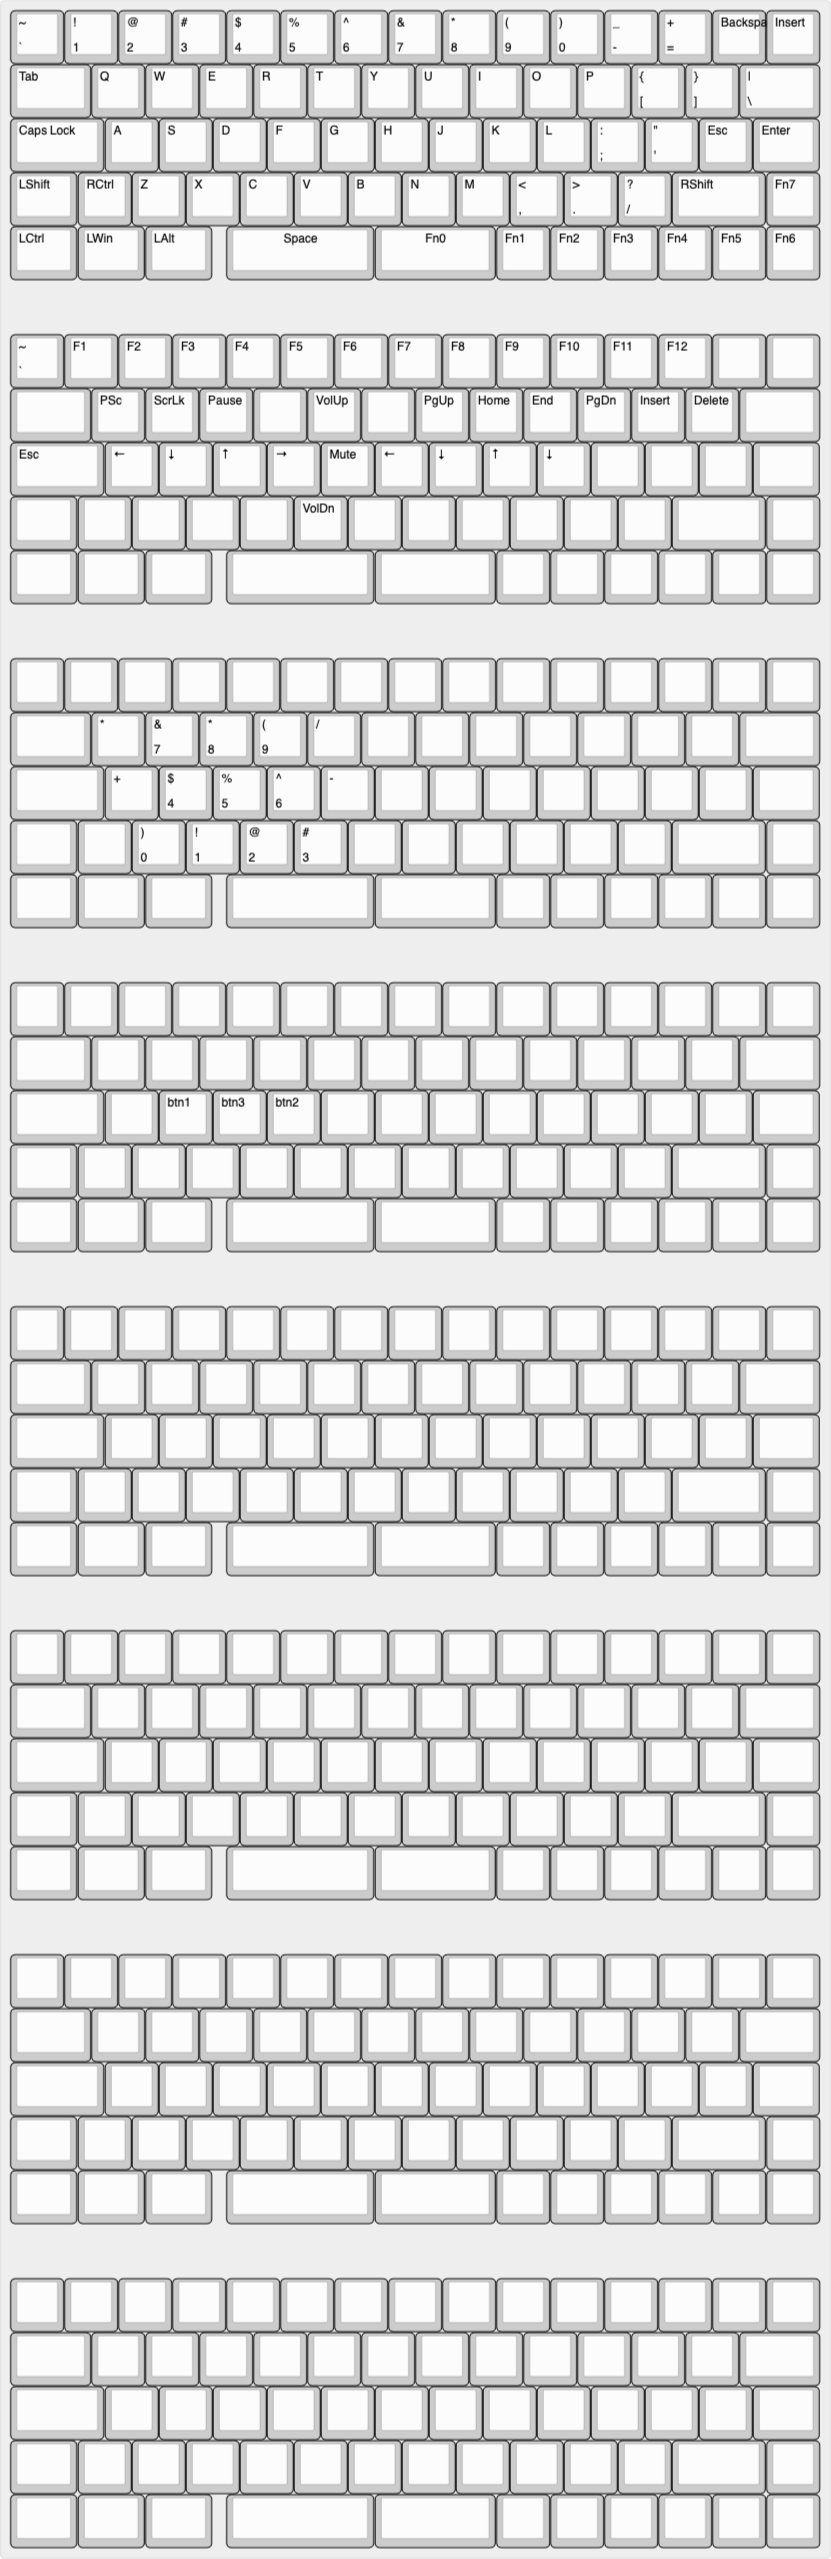
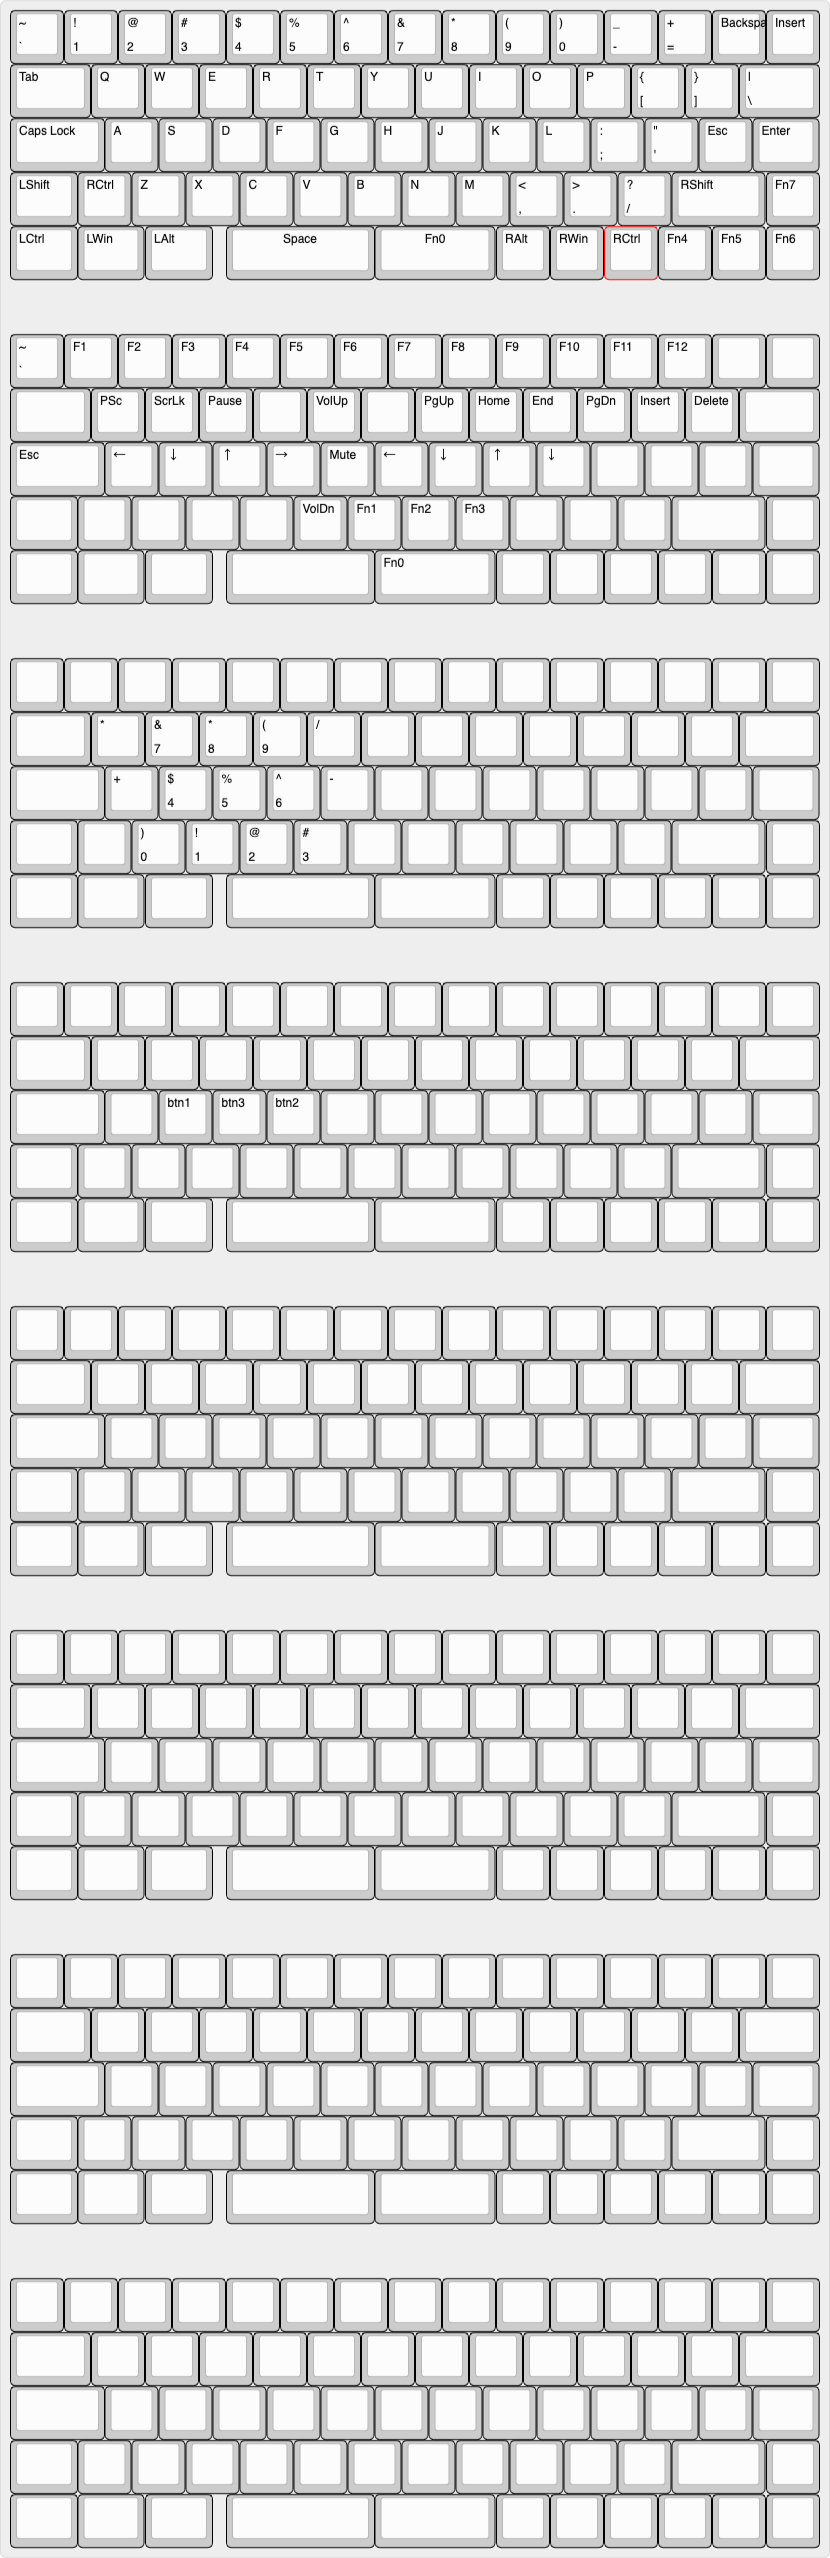
1555412225

diff --git a/keyboard/XD60/keymap.c b/keyboard/XD60/keymap.c
@@ -1,4 +1,4 @@
-// Generated by TKG at 2019-04-16 19:01:04
+// Generated by TKG at 2019-04-16 19:53:17
 
 #include "keymap_common.h"
 
@@ -32,7 +32,7 @@ const uint8_t keymaps[][MATRIX_ROWS][MATRIX_COLS] PROGMEM = {
         TRNS,PSCR,SLCK,PAUS,TRNS,VOLU,TRNS,PGUP,HOME,END, PGDN,INS, DEL, TRNS, \
         ESC, LEFT,DOWN,UP,  RGHT,MUTE,LEFT,DOWN,UP,  DOWN,TRNS,TRNS,TRNS,TRNS, \
         TRNS,TRNS,TRNS,TRNS,TRNS,VOLD,TRNS,TRNS,TRNS,TRNS,TRNS,TRNS,TRNS,TRNS, \
-        TRNS,TRNS,TRNS,     TRNS,TRNS,TRNS,     TRNS,TRNS,TRNS,TRNS,TRNS,TRNS),
+        TRNS,TRNS,TRNS,     TRNS,FN0, TRNS,     TRNS,TRNS,TRNS,TRNS,TRNS,TRNS),
     [2] = KEYMAP_TKG(
         TRNS,TRNS,TRNS,TRNS,TRNS,TRNS,TRNS,TRNS,TRNS,TRNS,TRNS,TRNS,TRNS,TRNS, \
         TRNS,PAST,7,   8,   9,   PSLS,TRNS,TRNS,TRNS,TRNS,TRNS,TRNS,TRNS,TRNS, \
@@ -40,10 +40,10 @@ const uint8_t keymaps[][MATRIX_ROWS][MATRIX_COLS] PROGMEM = {
         TRNS,TRNS,0,   1,   2,   3,   TRNS,TRNS,TRNS,TRNS,TRNS,TRNS,TRNS,TRNS, \
         TRNS,TRNS,TRNS,     TRNS,TRNS,TRNS,     TRNS,TRNS,TRNS,TRNS,TRNS,TRNS),
     [3] = KEYMAP_TKG(
-        TRNS,TRNS,TRNS,TRNS,TRNS,TRNS,TRNS,TRNS,TRNS,TRNS,TRNS,TRNS,TRNS,TRNS, \
-        TRNS,TRNS,TRNS,TRNS,TRNS,TRNS,TRNS,TRNS,TRNS,TRNS,TRNS,TRNS,TRNS,TRNS, \
-        TRNS,TRNS,BTN1,BTN3,BTN2,TRNS,TRNS,TRNS,TRNS,TRNS,TRNS,TRNS,TRNS,TRNS, \
-        TRNS,TRNS,TRNS,TRNS,TRNS,TRNS,TRNS,TRNS,TRNS,TRNS,TRNS,TRNS,TRNS,TRNS, \
+        TRNS,PWR, SLEP,WAKE,TRNS,TRNS,TRNS,TRNS,TRNS,TRNS,TRNS,TRNS,TRNS,TRNS, \
+        TRNS,BTN5,BTN4,BTN1,BTN3,BTN2,TRNS,TRNS,TRNS,TRNS,TRNS,TRNS,TRNS,TRNS, \
+        TRNS,MS_L,MS_D,MS_U,MS_R,ACL1,TRNS,TRNS,TRNS,TRNS,TRNS,TRNS,TRNS,TRNS, \
+        TRNS,TRNS,WH_L,WH_D,WH_U,WH_R,ACL2,TRNS,TRNS,TRNS,TRNS,TRNS,TRNS,TRNS, \
         TRNS,TRNS,TRNS,     TRNS,TRNS,TRNS,     TRNS,TRNS,TRNS,TRNS,TRNS,TRNS),
     [4] = KEYMAP_TKG(
         NO,  NO,  NO,  NO,  NO,  NO,  NO,  NO,  NO,  NO,  NO,  NO,  NO,  NO,   \
